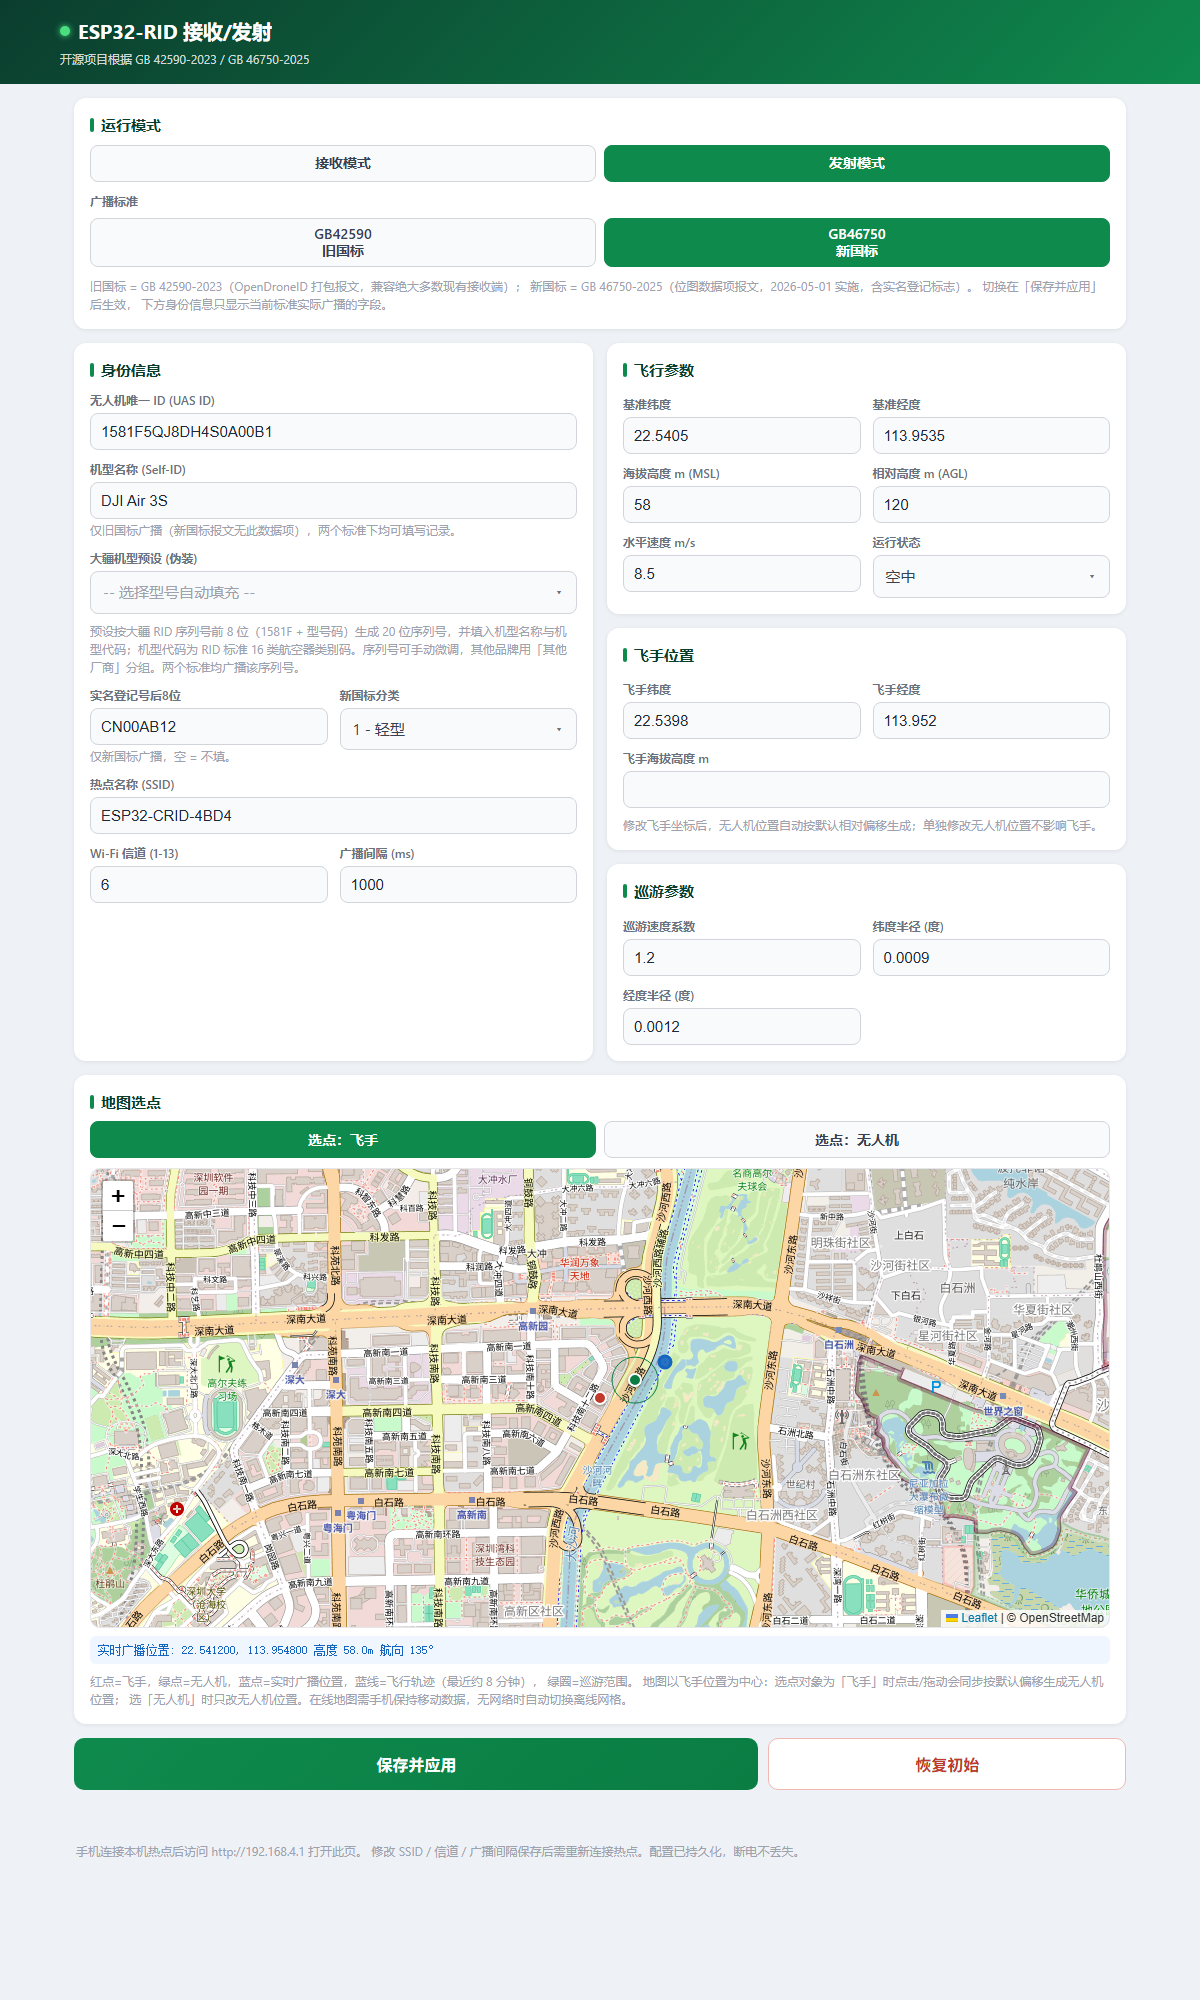
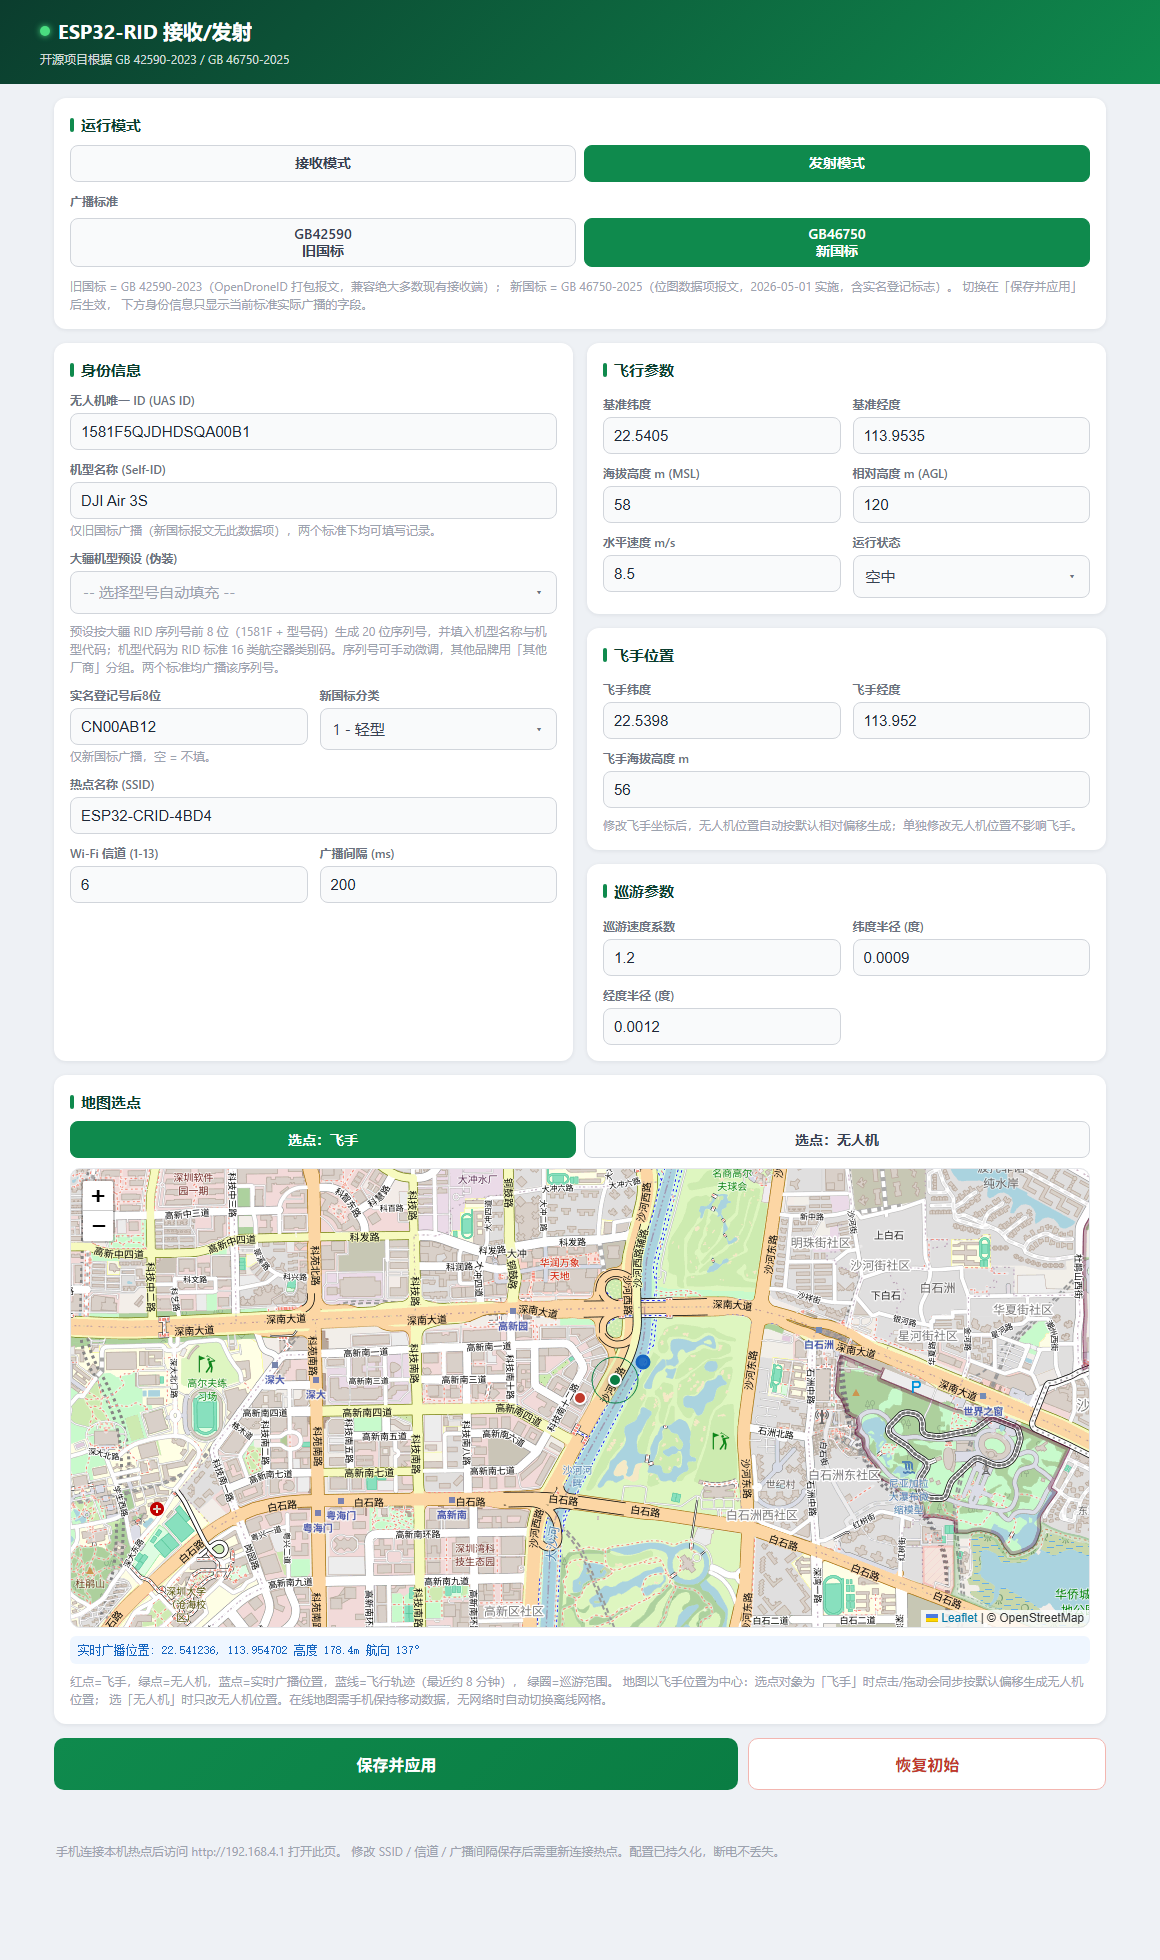
docs: regenerate README screenshots, add gen_shots.py
Screenshots are produced by tools/gen_shots.py, which serves the real page HTML over
a local HTTP mock of /api/config, /api/status and /api/rx, then captures it with
headless Edge. This keeps the shots on the real render path instead of hand-editing.

diff --git a/tools/gen_shots.py b/tools/gen_shots.py
@@ -1,0 +1,233 @@
+"""重制 README 截图（docs/webui_tx.png / docs/webui_rx.png）。
+
+做法：起一个本地 HTTP 服务，把 tools/_page.html 作为页面返回，并按真实接口格式
+mock /api/config、/api/status、/api/rx、/api/time，再用 Edge headless 截图。
+这样页面里的 fetch、轮询、卡片渲染、地图都走真实代码路径，不是 P 图。
+
+需要联网加载 Leaflet CDN 与 OSM 瓦片（走本地代理，见 PROXY）。
+用法：
+    python tools/gen_shots.py            # 两张都重制
+    python tools/gen_shots.py tx         # 只重制发射模式
+"""
+import http.server
+import json
+import os
+import socketserver
+import subprocess
+import sys
+import threading
+import time
+from urllib.parse import urlparse
+
+ROOT = os.path.dirname(os.path.dirname(os.path.abspath(__file__)))
+PAGE = os.path.join(ROOT, 'tools', '_page.html')
+RXMAP = os.path.join(ROOT, 'main', 'rxmap_page.js')
+DOCS = os.path.join(ROOT, 'docs')
+EDGE = r'C:\Program Files (x86)\Microsoft\Edge\Application\msedge.exe'
+PROXY = os.environ.get('SHOT_PROXY', 'http://127.0.0.1:7897')
+
+STATE = {'mode': 'tx'}
+
+CFG_TX = {
+    'device_mode': 0,
+    'rid_standard': 1,               # 1 = GB 46750 新国标
+    'uas_id': '1581F5QJDHDSQA00B1',
+    'drone_name': 'DJI Air 3S',
+    'operator_id': 'ESP32-CRID-4BD4',
+    'realname_id': 'CN00AB12',
+    'ssid': 'ESP32-CRID-4BD4',
+    'channel': 6,
+    'beacon_interval_ms': 200,
+    'ua_type': 2,
+    'ua_category_gb': 1,
+    'base_latitude': 22.540500,
+    'base_longitude': 113.953500,
+    'base_altitude_msl': 58.0,
+    'altitude_agl': 120.0,
+    'speed_horizontal': 8.5,
+    'status': 2,
+    'operator_latitude': 22.539800,
+    'operator_longitude': 113.952000,
+    'operator_altitude': 56.0,
+    'patrol_speed': 1.2,
+    'patrol_radius_lat': 0.0009,
+    'patrol_radius_lon': 0.0012,
+}
+
+CFG_RX = dict(CFG_TX)
+CFG_RX['device_mode'] = 1
+
+NOW = int(time.time() * 1000)
+
+TRACKS = [
+    {
+        'mac': '44:BD:8D:69:06:30', 'uas_id': '1581F5QJDHDSQA00B1',
+        'drone_name': 'DJI Air 3S', 'protocol': 4, 'status': 2,
+        'rssi': -52, 'channel': 6,
+        'latitude': 22.541820, 'longitude': 113.954800,
+        'altitude_geo': 120.5, 'altitude_agl': 78.2, 'altitude_baro': 118.0,
+        'speed_horizontal': 8.5, 'speed_vertical': 0.4, 'direction': 137.0,
+        'msg_count': 186, 'age_ms': 900, 'first_age_ms': 45200,
+        'active': True, 'ua_type': 1, 'realname_id': 'CN00AB12',
+        'has_op_loc': True, 'op_latitude': 22.539800, 'op_longitude': 113.952000,
+        'op_altitude_geo': 56.0, 'operator_id': 'ESP32-CRID-4BD4',
+        'op_loc_type': 1, 'coord_sys': 0, 'h_acc': 11, 'v_acc': 5,
+        'spd_acc': 3, 'ts_unix_ms': NOW - 900, 'ts_acc': 4, 'agl_type': 2,
+    },
+    {
+        'mac': '44:BD:8D:12:AB:77', 'uas_id': '1596F3B2C8D4E5A60071',
+        'drone_name': 'DJI Mavic 3 Pro', 'protocol': 3, 'status': 2,
+        'rssi': -67, 'channel': 6,
+        'latitude': 22.538650, 'longitude': 113.956200,
+        'altitude_geo': 96.0, 'altitude_agl': 60.0, 'altitude_baro': 94.0,
+        'speed_horizontal': 12.3, 'speed_vertical': -0.5, 'direction': 268.0,
+        'msg_count': 142, 'age_ms': 1500, 'first_age_ms': 31200,
+        'active': True, 'ua_type': 2,
+        'has_op_loc': True, 'op_latitude': 22.537200, 'op_longitude': 113.953100,
+        'op_altitude_geo': 38.0, 'operator_id': 'CN-OP-8823',
+        'ts_rel_10s': 1234, 'h_acc': 10, 'v_acc': 4, 'spd_acc': 2, 'agl_type': 1,
+    },
+    {
+        'mac': '44:BD:8D:5C:2E:19', 'uas_id': '1470A9F3B6C21D880042',
+        'drone_name': '', 'protocol': 0, 'status': 2,
+        'rssi': -78, 'channel': 6,
+        'latitude': 22.543100, 'longitude': 113.950200,
+        'altitude_geo': 152.0, 'altitude_agl': 100.0,
+        'speed_horizontal': 5.1, 'speed_vertical': 0.0, 'direction': 45.0,
+        'msg_count': 96, 'age_ms': 2400, 'first_age_ms': 18900,
+        'active': True, 'ua_type': 2,
+        'has_op_loc': False, 'ts_rel_10s': 2400,
+        'h_acc': 9, 'v_acc': 3, 'spd_acc': 2, 'agl_type': 1,
+    },
+    {
+        'mac': '44:BD:8D:7F:31:02', 'uas_id': '1581F6K9M2P4R7T8V1W3',
+        'drone_name': 'DJI Mini 4 Pro', 'protocol': 4, 'status': 1,
+        'rssi': -88, 'channel': 6,
+        'latitude': 22.535500, 'longitude': 113.948800,
+        'altitude_geo': 40.0, 'altitude_agl': 5.0, 'altitude_baro': 39.0,
+        'speed_horizontal': 0.0, 'speed_vertical': 0.0, 'direction': 0.0,
+        'msg_count': 22, 'age_ms': 18400, 'first_age_ms': 96000,
+        'active': False, 'ua_type': 1, 'realname_id': 'CN00CD34',
+        'has_op_loc': True, 'op_latitude': 22.535100, 'op_longitude': 113.948300,
+        'op_altitude_geo': 36.0, 'operator_id': 'CN-OP-1145',
+        'op_loc_type': 1, 'coord_sys': 0, 'h_acc': 11, 'v_acc': 5,
+        'spd_acc': 3, 'ts_unix_ms': NOW - 18400, 'ts_acc': 4, 'agl_type': 1,
+    },
+]
+
+# 接收模式：让第一张卡片展开「详情」，其余保持折叠，体现折叠功能。
+# pollRx 每 2s 会重建卡片 DOM，展开态会被覆盖，所以要持续保持。
+INJECT_RX = """
+<script>
+window.addEventListener('load', function () {
+  var n = 0;
+  var t = setInterval(function () {
+    var c = document.querySelector('#rxlist .dcard');
+    if (c && !c.classList.contains('open')) c.classList.add('open');
+    try { updFoldBtn(); } catch (e) {}
+    if (++n > 40) clearInterval(t);
+  }, 600);
+});
+</script>
+"""
+
+
+class Handler(http.server.BaseHTTPRequestHandler):
+    protocol_version = 'HTTP/1.1'
+
+    def log_message(self, *args):
+        pass
+
+    def _send(self, code, body, ctype):
+        if isinstance(body, str):
+            body = body.encode('utf-8')
+        self.send_response(code)
+        self.send_header('Content-Type', ctype)
+        self.send_header('Content-Length', str(len(body)))
+        self.send_header('Cache-Control', 'no-store')
+        self.end_headers()
+        try:
+            self.wfile.write(body)
+        except (BrokenPipeError, ConnectionResetError):
+            pass
+
+    def do_GET(self):
+        path = urlparse(self.path).path
+        if path in ('/', '/index.html'):
+            with open(PAGE, encoding='utf-8') as f:
+                html = f.read()
+            if STATE['mode'] == 'rx':
+                html = html.replace('</body>', INJECT_RX + '</body>')
+            self._send(200, html, 'text/html; charset=utf-8')
+        elif path == '/api/config':
+            cfg = CFG_RX if STATE['mode'] == 'rx' else CFG_TX
+            self._send(200, json.dumps(cfg), 'application/json')
+        elif path == '/api/status':
+            self._send(200, json.dumps({
+                'latitude': 22.541236, 'longitude': 113.954702,
+                'altitude_msl': 178.40, 'heading': 137.0, 'mode': 0,
+            }), 'application/json')
+        elif path == '/api/rx':
+            self._send(200, json.dumps({
+                'tracks': TRACKS,
+                'stats': {'rid': 4, 'total': 71, 'ok': 68, 'ovf': 0},
+            }), 'application/json')
+        elif path == '/rxmap.js':
+            with open(RXMAP, 'rb') as f:
+                self._send(200, f.read(), 'application/javascript')
+        elif path == '/favicon.ico':
+            self._send(204, b'', 'image/x-icon')
+        else:
+            self._send(404, '{}', 'application/json')
+
+    def do_POST(self):
+        n = int(self.headers.get('Content-Length') or 0)
+        if n:
+            self.rfile.read(n)
+        self._send(200, json.dumps({'ok': True}), 'application/json')
+
+
+def shoot(port, mode, out_name, height, width=1160):
+    STATE['mode'] = mode
+    out = os.path.join(DOCS, out_name)
+    profile = os.path.join(ROOT, 'build', '_shot_profile_%s' % mode)
+    cmd = [
+        EDGE,
+        '--headless=new',
+        '--disable-gpu',
+        '--hide-scrollbars',
+        '--no-first-run',
+        '--disable-extensions',
+        '--user-data-dir=' + profile,
+        '--proxy-server=' + PROXY,
+        '--window-size=%d,%d' % (width, height),
+        '--virtual-time-budget=25000',
+        '--screenshot=' + out,
+        'http://127.0.0.1:%d/' % port,
+    ]
+    print('>>> %s -> %s' % (mode, out))
+    subprocess.run(cmd, check=False, timeout=180)
+    if os.path.exists(out):
+        print('    %d bytes' % os.path.getsize(out))
+    else:
+        print('    !! 截图未生成')
+
+
+def main():
+    want = sys.argv[1:] or ['tx', 'rx']
+    httpd = socketserver.TCPServer(('127.0.0.1', 0), Handler)
+    httpd.allow_reuse_address = True
+    port = httpd.server_address[1]
+    threading.Thread(target=httpd.serve_forever, daemon=True).start()
+    print('mock server on 127.0.0.1:%d' % port)
+    try:
+        if 'tx' in want:
+            shoot(port, 'tx', 'webui_tx.png', 1960)
+        if 'rx' in want:
+            shoot(port, 'rx', 'webui_rx.png', 1560, width=1000)
+    finally:
+        httpd.shutdown()
+
+
+if __name__ == '__main__':
+    main()
